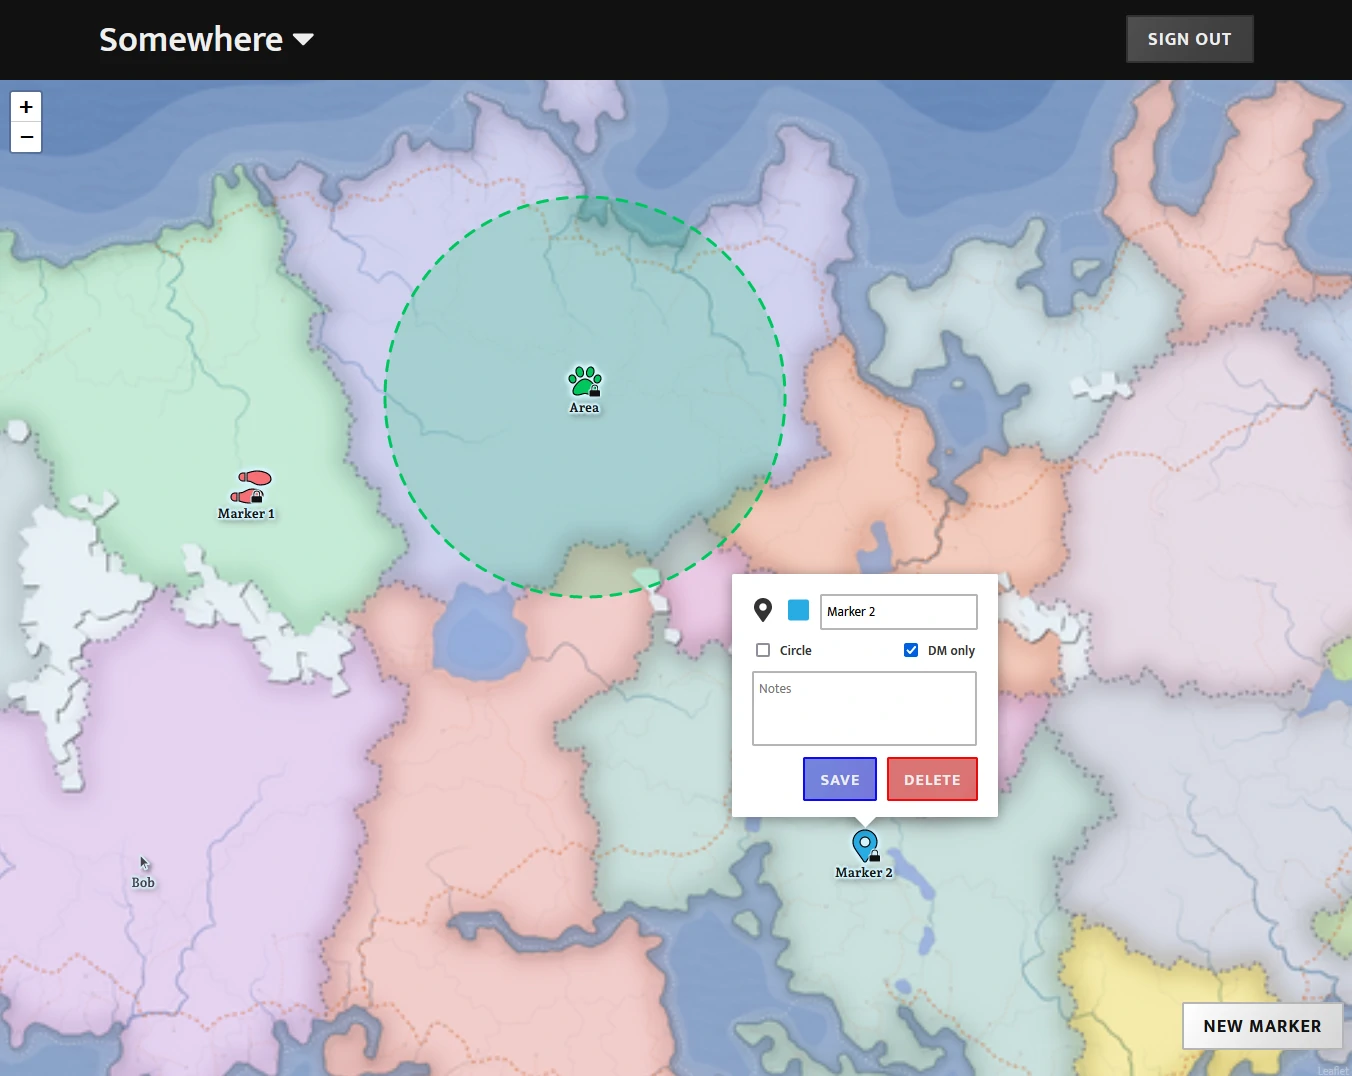
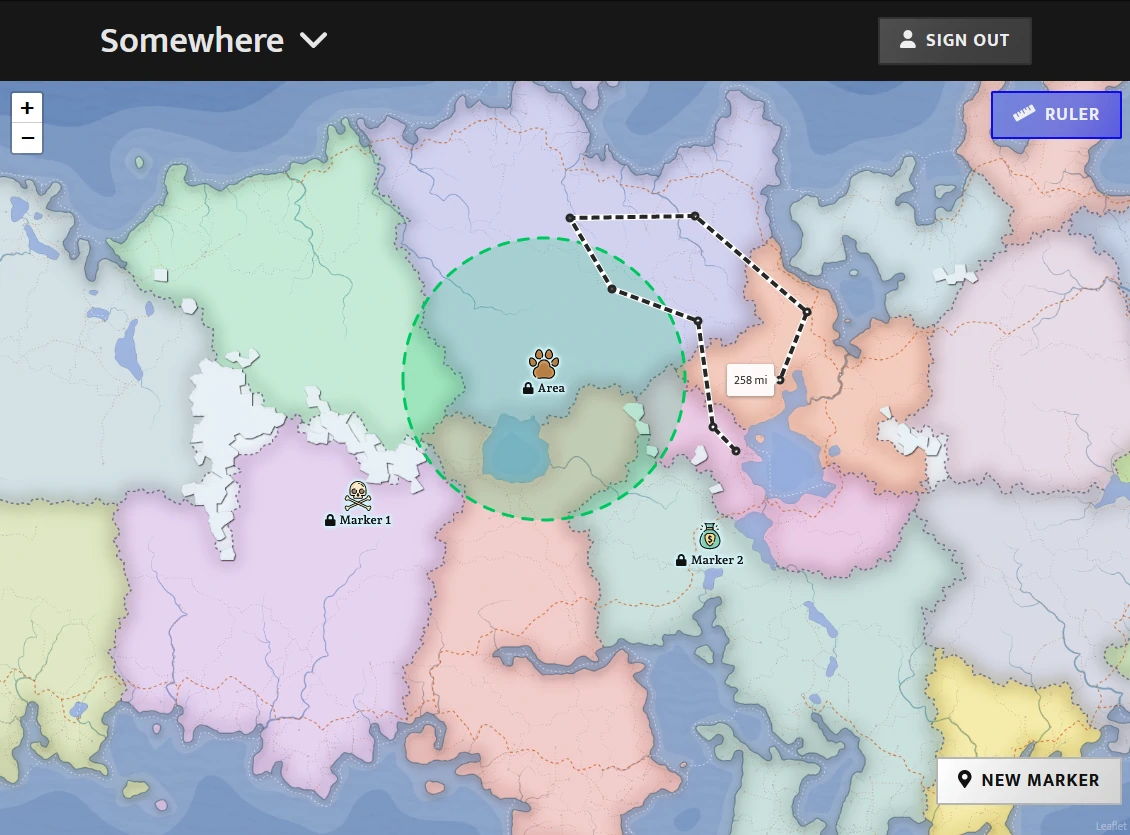
Update readme

diff --git a/README.md b/README.md
@@ -1,6 +1,6 @@
 # D&D Map
 
-Map browser for D&D using react-leaflet, with firebase realtime database integration. Shows location of mouse cursors on the map for anyone currently logged in.
+Map browser for D&D using react-leaflet, with firebase realtime database integration. Shows location of mouse cursors on the map for anyone currently logged in. Includes a ruler to measure distance along a set of points.
 
 <img src="example2.webp" height="400">
 <img src="example1.webp" height="400">
